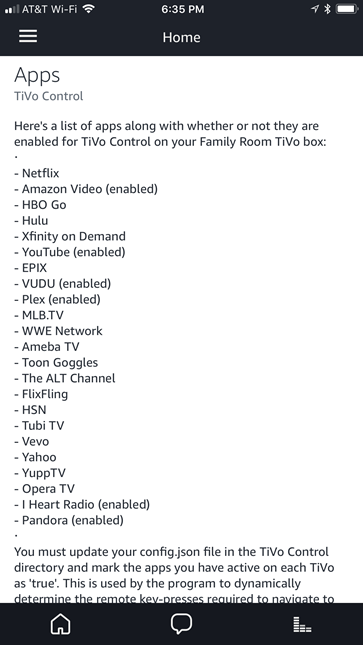
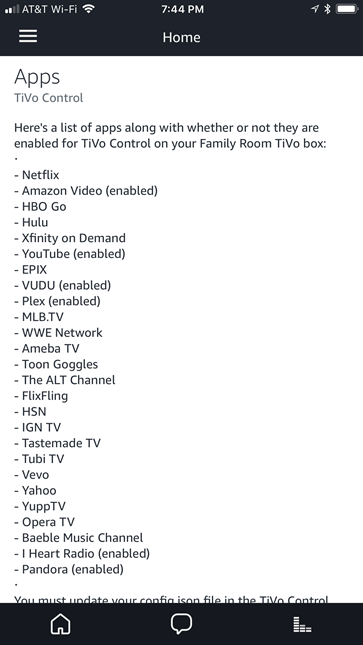
add ign, tastemade, and baeble (closes #44)

Changed region(s): [[0.0303, 0.186, 0.9091, 0.9612], [0.0303, 0.093, 0.2121, 0.155], [0.4242, 0.0, 0.5758, 0.031]]

diff --git a/app.js b/app.js
@@ -15,7 +15,7 @@ var channels = require("./channels.json");
 var route = config.route || "tivo_control";
 
 // set apps order
-var apps_order = [strings.netflix, strings.amazon, strings.hbogo, strings.hulu, strings.xfinityondemand, strings.youtube, strings.epix, strings.vudu, strings.plex, strings.mlbtv, strings.wwe, strings.ameba, strings.toongoggles, strings.alt, strings.flixfling, strings.hsn, strings.tubi, strings.vevo, strings.yahoo, strings.yupptv, strings.opera, strings.iheartradio, strings.pandora];
+var apps_order = [strings.netflix, strings.amazon, strings.hbogo, strings.hulu, strings.xfinityondemand, strings.youtube, strings.epix, strings.vudu, strings.plex, strings.mlbtv, strings.wwe, strings.ameba, strings.toongoggles, strings.alt, strings.flixfling, strings.hsn, strings.ign, strings.tastemade, strings.tubi, strings.vevo, strings.yahoo, strings.yupptv, strings.opera, strings.baeble, strings.iheartradio, strings.pandora];
 
 // define variables
 var queuedCommands = [];
@@ -1204,6 +1204,63 @@ app.intent('TubiTV',
         }
     });
 
+app.intent('IGNTV',
+    {
+        "slots":{},
+        "utterances":[ "{go to|open|turn on|open up|display|jump to|launch|} {ign|eye gee enn|i g n|ign tv|eye gee enn tv|i g n tv}" ]
+    },
+    function(request,response) {
+        if (checkAppEnabled(strings.ign)) {
+            response.say("Launching " + strings.ign);
+            var commands = [];
+            commands = addInitCommands(commands);
+            commands = openAppsCommands(commands);
+            commands = buildAppNavigation(strings.ign, commands);
+            sendCommands(commands);
+        }
+        else {
+            response.say(strings.ign + strings.txt_notenabled);
+        }
+    });
+
+app.intent('TastemadeTV',
+    {
+        "slots":{},
+        "utterances":[ "{go to|open|turn on|open up|display|jump to|launch|} {tastemade|taste made|tastemade tv|taste made tv}" ]
+    },
+    function(request,response) {
+        if (checkAppEnabled(strings.tastemade)) {
+            response.say("Launching " + strings.tastemade);
+            var commands = [];
+            commands = addInitCommands(commands);
+            commands = openAppsCommands(commands);
+            commands = buildAppNavigation(strings.tastemade, commands);
+            sendCommands(commands);
+        }
+        else {
+            response.say(strings.tastemade + strings.txt_notenabled);
+        }
+    });
+
+app.intent('BaebleMusic',
+    {
+        "slots":{},
+        "utterances":[ "{go to|open|turn on|open up|display|jump to|launch|} {baeble|baeble music|babble|babble music}" ]
+    },
+    function(request,response) {
+        if (checkAppEnabled(strings.baeble)) {
+            response.say("Launching " + strings.baeble);
+            var commands = [];
+            commands = addInitCommands(commands);
+            commands = openAppsCommands(commands);
+            commands = buildAppNavigation(strings.baeble, commands);
+            sendCommands(commands);
+        }
+        else {
+            response.say(strings.baeble + strings.txt_notenabled);
+        }
+    });
+
 app.intent('Pandora',
     {
         "slots":{},
@@ -1535,7 +1592,7 @@ function updateCurrentTiVoConfig(tivoIndex) {
     tivoMini = config.tivos[tivoIndex].mini;
 
     // update apps status
-    apps_status = [config.tivos[tivoIndex].netflix, config.tivos[tivoIndex].amazon, config.tivos[tivoIndex].hbogo, config.tivos[tivoIndex].hulu, config.tivos[tivoIndex].xfinityondemand, config.tivos[tivoIndex].youtube, config.tivos[tivoIndex].epix, config.tivos[tivoIndex].vudu, config.tivos[tivoIndex].plex, config.tivos[tivoIndex].mlbtv, config.tivos[tivoIndex].wwe, config.tivos[tivoIndex].ameba, config.tivos[tivoIndex].toongoggles, config.tivos[tivoIndex].alt, config.tivos[tivoIndex].flixfling, config.tivos[tivoIndex].hsn, config.tivos[tivoIndex].tubi, config.tivos[tivoIndex].vevo, config.tivos[tivoIndex].yahoo, config.tivos[tivoIndex].yupptv, config.tivos[tivoIndex].opera, config.tivos[tivoIndex].iheartradio, config.tivos[tivoIndex].pandora];
+    apps_status = [config.tivos[tivoIndex].netflix, config.tivos[tivoIndex].amazon, config.tivos[tivoIndex].hbogo, config.tivos[tivoIndex].hulu, config.tivos[tivoIndex].xfinityondemand, config.tivos[tivoIndex].youtube, config.tivos[tivoIndex].epix, config.tivos[tivoIndex].vudu, config.tivos[tivoIndex].plex, config.tivos[tivoIndex].mlbtv, config.tivos[tivoIndex].wwe, config.tivos[tivoIndex].ameba, config.tivos[tivoIndex].toongoggles, config.tivos[tivoIndex].alt, config.tivos[tivoIndex].flixfling, config.tivos[tivoIndex].hsn, config.tivos[tivoIndex].ign, config.tivos[tivoIndex].tastemade, config.tivos[tivoIndex].tubi, config.tivos[tivoIndex].vevo, config.tivos[tivoIndex].yahoo, config.tivos[tivoIndex].yupptv, config.tivos[tivoIndex].opera, config.tivos[tivoIndex].baeble, config.tivos[tivoIndex].iheartradio, config.tivos[tivoIndex].pandora];
 
     console.log("Currently controlling: " + currentTiVoBox + " (" + currentTiVoIP + ")");
 }
